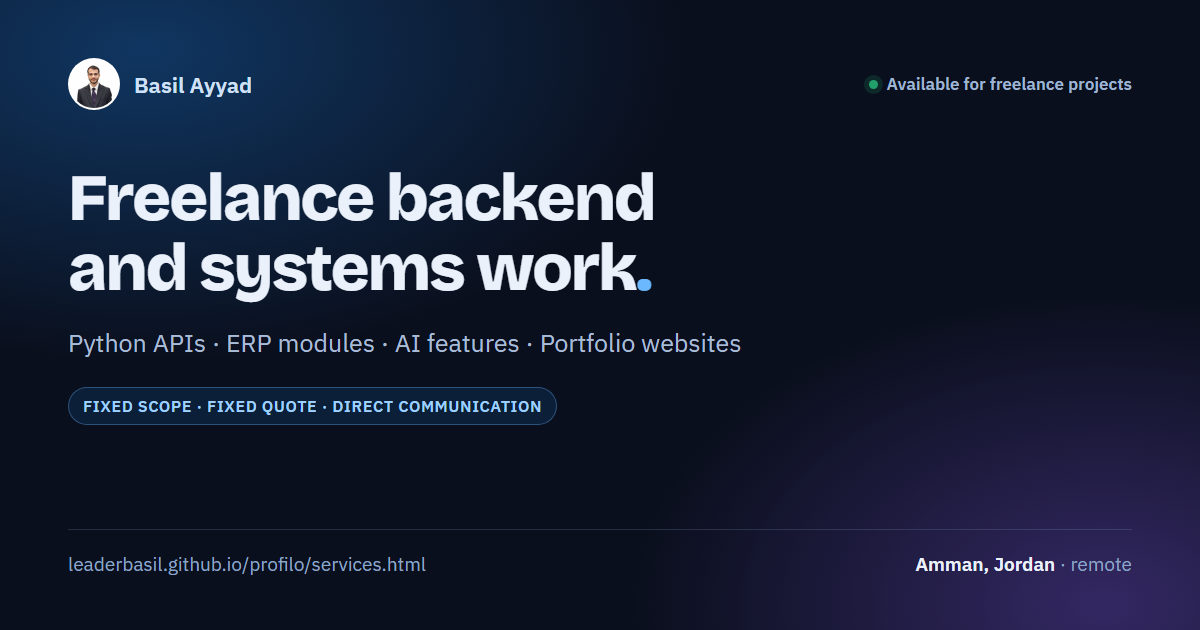
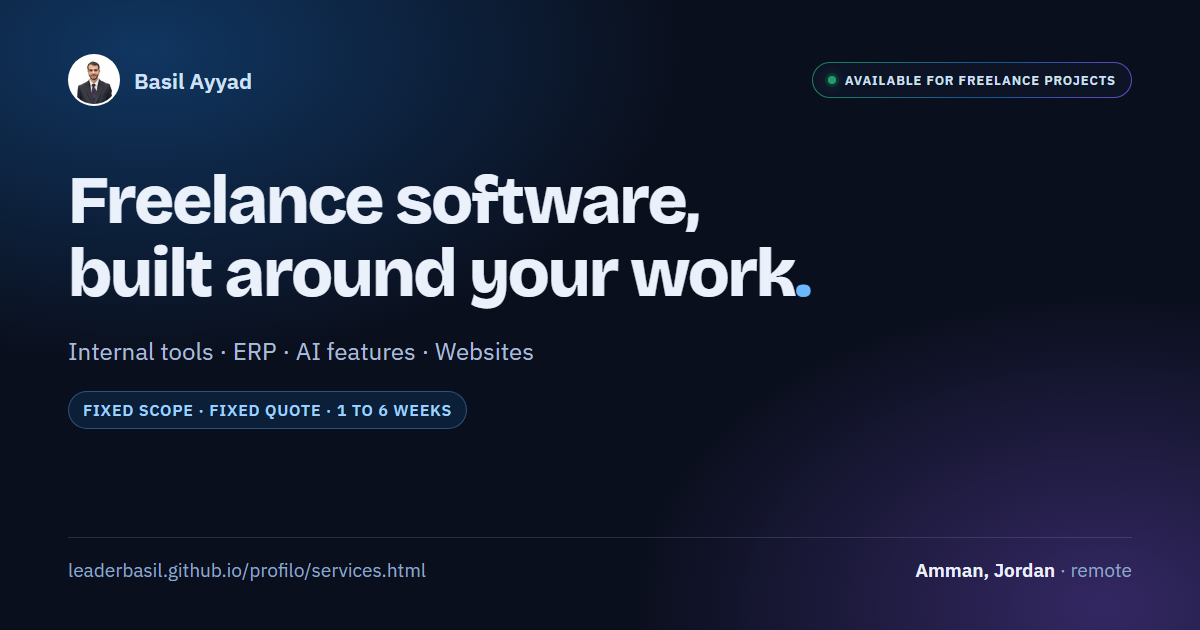
Refine freelance services copy and availability badge

diff --git a/services.html b/services.html
@@ -3,25 +3,25 @@
 <head>
 <meta charset="utf-8">
 <meta name="viewport" content="width=device-width, initial-scale=1, viewport-fit=cover">
-<title>Freelance Services — Basil Ayyad | Backend, ERP, AI, Portfolio Sites</title>
-<meta name="description" content="Freelance backend engineering: Python APIs, custom web apps, ERP modules, AI features, and fast portfolio websites. Based in Amman, working remotely.">
+<title>Freelance Services — Basil Ayyad | Internal Tools, ERP, AI, Websites</title>
+<meta name="description" content="Freelance software for internal tools, business systems, ERP modules, AI features, and fast portfolio websites. Based in Amman, working remotely.">
 <meta name="author" content="Basil Ayyad">
 <meta name="theme-color" content="#f6f9fe" media="(prefers-color-scheme: light)">
 <meta name="theme-color" content="#0a0f1d" media="(prefers-color-scheme: dark)">
 <meta property="og:type" content="website">
 <meta property="og:title" content="Freelance Services — Basil Ayyad">
-<meta property="og:description" content="Python APIs, custom web apps, ERP modules, AI features, and fast portfolio websites. Fixed scope, fixed quote, direct communication.">
+<meta property="og:description" content="Internal tools, business systems, ERP modules, AI features, and fast portfolio websites. Fixed scope, fixed quote, direct communication.">
 <meta property="og:url" content="https://leaderbasil.github.io/profilo/services.html">
 <meta property="og:image" content="https://leaderbasil.github.io/profilo/og-services.png">
 <meta property="og:image:width" content="1200">
 <meta property="og:image:height" content="630">
-<meta property="og:image:alt" content="Basil Ayyad, freelance backend engineer">
+<meta property="og:image:alt" content="Basil Ayyad, freelance software engineer">
 <meta name="twitter:card" content="summary_large_image">
 <meta name="twitter:title" content="Freelance Services — Basil Ayyad">
-<meta name="twitter:description" content="Python APIs, custom web apps, ERP modules, AI features, and fast portfolio websites. Fixed scope, fixed quote.">
+<meta name="twitter:description" content="Internal tools, business systems, ERP modules, AI features, and fast portfolio websites. Fixed scope, fixed quote.">
 <meta name="twitter:image" content="https://leaderbasil.github.io/profilo/og-services.png">
 <link rel="canonical" href="https://leaderbasil.github.io/profilo/services.html">
-<script type="application/ld+json">{"@context":"https://schema.org","@type":"ProfessionalService","name":"Basil Ayyad — Freelance Engineering","url":"https://leaderbasil.github.io/profilo/services.html","image":"https://leaderbasil.github.io/profilo/og-services.png","email":"mailto:leaderbasil@gmail.com","description":"Freelance backend engineering: Python APIs, custom web applications, ERP modules, AI features, automation, and portfolio websites.","address":{"@type":"PostalAddress","addressLocality":"Amman","addressCountry":"JO"},"areaServed":"Worldwide","priceRange":"$$","provider":{"@type":"Person","name":"Basil Ayyad","jobTitle":"Software Engineer","url":"https://leaderbasil.github.io/profilo/"},"hasOfferCatalog":{"@type":"OfferCatalog","name":"Freelance services","itemListElement":[{"@type":"Offer","itemOffered":{"@type":"Service","name":"REST API and backend development"}},{"@type":"Offer","itemOffered":{"@type":"Service","name":"Custom web applications and dashboards"}},{"@type":"Offer","itemOffered":{"@type":"Service","name":"ERP modules and integration"}},{"@type":"Offer","itemOffered":{"@type":"Service","name":"AI features inside business workflows"}},{"@type":"Offer","itemOffered":{"@type":"Service","name":"Portfolio and personal websites"}},{"@type":"Offer","itemOffered":{"@type":"Service","name":"Mobile and desktop clients"}},{"@type":"Offer","itemOffered":{"@type":"Service","name":"Automation, integrations, and reporting"}},{"@type":"Offer","itemOffered":{"@type":"Service","name":"Maintenance and support"}}]}}</script>
+<script type="application/ld+json">{"@context":"https://schema.org","@type":"ProfessionalService","name":"Basil Ayyad — Freelance Software","url":"https://leaderbasil.github.io/profilo/services.html","image":"https://leaderbasil.github.io/profilo/og-services.png","email":"mailto:leaderbasil@gmail.com","description":"Freelance software for internal tools, business systems, ERP modules, AI features, automation, and portfolio websites.","address":{"@type":"PostalAddress","addressLocality":"Amman","addressCountry":"JO"},"areaServed":"Worldwide","priceRange":"$$","provider":{"@type":"Person","name":"Basil Ayyad","jobTitle":"Software Engineer","url":"https://leaderbasil.github.io/profilo/"},"hasOfferCatalog":{"@type":"OfferCatalog","name":"Freelance services","itemListElement":[{"@type":"Offer","itemOffered":{"@type":"Service","name":"Internal tools and operations software"}},{"@type":"Offer","itemOffered":{"@type":"Service","name":"Customer portals and web applications"}},{"@type":"Offer","itemOffered":{"@type":"Service","name":"ERP modules and business systems"}},{"@type":"Offer","itemOffered":{"@type":"Service","name":"AI features that reduce manual review"}},{"@type":"Offer","itemOffered":{"@type":"Service","name":"Portfolio and personal websites"}},{"@type":"Offer","itemOffered":{"@type":"Service","name":"Mobile and desktop applications"}},{"@type":"Offer","itemOffered":{"@type":"Service","name":"Automation and reporting"}},{"@type":"Offer","itemOffered":{"@type":"Service","name":"Ongoing support and improvements"}}]}}</script>
 <link rel="icon" type="image/png" href="assets/avatar.png">
 <link rel="apple-touch-icon" href="assets/avatar.png">
 <link rel="preconnect" href="https://fonts.googleapis.com">
@@ -43,10 +43,10 @@
 <main id="top" class="wrap">
 <div class="page-hero">
 <div class="page-hero-text">
-<p class="status ent" style="--e:0"><i></i>Available for freelance projects</p>
-<h1 class="ent" style="--e:1">Freelance backend and systems work.</h1>
-<p class="role ent" style="--e:2">Python · APIs · ERP · AI features · Portfolio sites</p>
-<p class="lead ent" style="--e:3">I take on a small number of projects at a time, usually backend systems with a web or mobile client on top: an internal tool, an ERP module, an API that other products depend on, or a portfolio site that has to load fast and read well.<span class="lp">You work directly with me from the first call to the handover. The scope and the price are agreed in writing before the work starts, and you see working software every week or two.</span></p>
+<p class="avail ent" style="--e:0"><span class="ping" aria-hidden="true"></span>Available for freelance projects</p>
+<h1 class="ent" style="--e:1">Freelance software, built around your work.</h1>
+<p class="role ent" style="--e:2">Internal tools · ERP · AI features · Websites</p>
+<p class="lead ent" style="--e:3">I take on a small number of projects at a time, usually the software a team uses to run its work: an internal tool, an ERP module, a customer portal, or a portfolio site that has to load fast and read well.<span class="lp">You work directly with me from the first call to the handover. The scope and the price are agreed in writing before the work starts, and you see working software every week or two.</span></p>
 <div class="cta ent" style="--e:4">
 <a class="btn main" href="#contact" data-track="services-cta">Start a project<svg viewBox="0 0 24 24" fill="none" stroke="currentColor" stroke-width="2" stroke-linecap="round" stroke-linejoin="round" aria-hidden="true" style="width:17px;height:17px"><path d="M5 12h14m0 0-6-6m6 6-6 6"/></svg></a>
 <a class="btn" href="index.html#work">See selected work</a>
@@ -57,15 +57,15 @@
 <span><svg viewBox="0 0 24 24" fill="none" stroke="currentColor" stroke-width="2" stroke-linecap="round" stroke-linejoin="round" aria-hidden="true"><circle cx="12" cy="12" r="9"/><path d="M3 12h18M12 3c2.5 2.6 3.8 5.7 3.8 9S14.5 18.4 12 21c-2.5-2.6-3.8-5.7-3.8-9S9.5 5.6 12 3z"/></svg>English or Arabic</span>
 </div>
 </div>
-<div class="console ent" style="--e:2" role="img" aria-label="A sample project request: internal tool, Python, FastAPI, PostgreSQL, fixed scope, 3 to 6 weeks">
+<div class="console ent" style="--e:2" role="img" aria-label="A sample project request: internal tool for an operations team, fixed scope, 1 to 6 weeks">
 <div class="top" aria-hidden="true"><b></b><b></b><b></b></div>
 <div class="body">
 <div class="req ln" style="--i:0">POST /projects</div>
 <span class="ln" style="--i:1">{</span>
 <span class="ln" style="--i:2">&nbsp;&nbsp;<span class="k">"type"</span>: <span class="s">"internal tool"</span>,</span>
-<span class="ln" style="--i:3">&nbsp;&nbsp;<span class="k">"stack"</span>: [<span class="s">"Python"</span>, <span class="s">"FastAPI"</span>, <span class="s">"PostgreSQL"</span>],</span>
+<span class="ln" style="--i:3">&nbsp;&nbsp;<span class="k">"users"</span>: <span class="s">"operations team"</span>,</span>
 <span class="ln" style="--i:4">&nbsp;&nbsp;<span class="k">"scope"</span>: <span class="s">"agreed in writing"</span>,</span>
-<span class="ln" style="--i:5">&nbsp;&nbsp;<span class="k">"timeline"</span>: <span class="s">"3 to 6 weeks"</span>,</span>
+<span class="ln" style="--i:5">&nbsp;&nbsp;<span class="k">"timeline"</span>: <span class="s">"1 to 6 weeks"</span>,</span>
 <span class="ln" style="--i:6">&nbsp;&nbsp;<span class="k">"status"</span>: <span class="s">"taking one project"</span></span>
 <span class="ln" style="--i:7">}<span class="cur" aria-hidden="true"></span></span>
 </div></div>
@@ -73,56 +73,56 @@
 </div>
 
 <section id="services">
-<h2 class="rv">What I can build</h2>
-<p class="sub rv" style="--d:.05s">Most projects start with one of these. If yours is close, send a short description and I will tell you what it takes.</p>
+<h2 class="rv">What I take on</h2>
+<p class="sub rv" style="--d:.05s">Most engagements start with one of these. If yours is close, send a short description and I will tell you what it takes.</p>
 <div class="svc-grid">
 <article class="card svc rv">
-<span class="ico"><svg viewBox="0 0 24 24" fill="none" stroke="currentColor" stroke-width="1.7" stroke-linecap="round" stroke-linejoin="round" aria-hidden="true"><path d="M8 3H5a2 2 0 0 0-2 2v3M16 3h3a2 2 0 0 1 2 2v3M8 21H5a2 2 0 0 1-2-2v-3M16 21h3a2 2 0 0 0 2-2v-3"/><path d="m9.5 9.5-2 2.5 2 2.5M14.5 9.5l2 2.5-2 2.5"/></svg></span>
-<h3>REST APIs and backend services</h3>
-<p>A documented API with authentication, roles, validation, and tests. I build it with FastAPI or Sanic on PostgreSQL or MySQL, and deploy it with Docker.</p>
-<ul class="del"><li>OpenAPI documentation</li><li>JWT auth and role permissions</li><li>Database schema and migrations</li><li>Tests and deployment notes</li></ul>
+<span class="ico"><svg viewBox="0 0 24 24" fill="none" stroke="currentColor" stroke-width="1.7" stroke-linecap="round" stroke-linejoin="round" aria-hidden="true"><path d="M4 7h8M16 7h4M4 12h4M12 12h8M4 17h10M18 17h2"/><circle cx="14" cy="7" r="2"/><circle cx="10" cy="12" r="2"/><circle cx="16" cy="17" r="2"/></svg></span>
+<h3>Internal tools and operations software</h3>
+<p>Software for the work that still runs on spreadsheets, messages, and memory: approvals, stock, orders, schedules, and the reports managers ask for every week.</p>
+<ul class="del"><li>A working internal system</li><li>Roles and permissions</li><li>Reports and exports</li><li>Training and handover</li></ul>
 </article>
 <article class="card svc rv" style="--d:.06s">
 <span class="ico"><svg viewBox="0 0 24 24" fill="none" stroke="currentColor" stroke-width="1.7" stroke-linecap="round" stroke-linejoin="round" aria-hidden="true"><rect x="3" y="4" width="18" height="16" rx="2"/><path d="M3 9h18M6.5 6.5h.01M9.5 6.5h.01"/></svg></span>
-<h3>Custom web applications</h3>
-<p>An internal tool or a customer-facing app: a React front end on a Python backend, with a data model that matches how the business actually works.</p>
-<ul class="del"><li>Admin dashboard or customer portal</li><li>Role-based screens</li><li>Reports and exports</li><li>Deployment and handover</li></ul>
+<h3>Customer portals and web applications</h3>
+<p>Accounts, orders, bookings, or a portal your customers log into. Built around the journey they actually take, with a back office your team can run without me.</p>
+<ul class="del"><li>Customer portal or booking flow</li><li>Admin back office</li><li>Email and notifications</li><li>Launch support</li></ul>
 </article>
 <article class="card svc rv" style="--d:.12s">
 <span class="ico"><svg viewBox="0 0 24 24" fill="none" stroke="currentColor" stroke-width="1.7" stroke-linecap="round" stroke-linejoin="round" aria-hidden="true"><rect x="3" y="3" width="7" height="7" rx="1.5"/><rect x="14" y="3" width="7" height="7" rx="1.5"/><rect x="3" y="14" width="7" height="7" rx="1.5"/><rect x="14" y="14" width="7" height="7" rx="1.5"/></svg></span>
-<h3>ERP modules and integration</h3>
-<p>Inventory, sales, purchasing, accounting, or reporting modules added to an existing ERP, or a small ERP built around the parts you need. I have built seven modules of a production ERP.</p>
-<ul class="del"><li>Module design and data model</li><li>Integration with client systems</li><li>Data import and migration</li><li>Reports and permissions</li></ul>
+<h3>ERP modules and business systems</h3>
+<p>Inventory, sales, purchasing, accounting, or reporting added to the system you already run, or a smaller system built around the parts you need. I have shipped seven modules of a production ERP.</p>
+<ul class="del"><li>Module scope and data model</li><li>Migration of existing data</li><li>Integration with current tools</li><li>Reports and permissions</li></ul>
 </article>
 <article class="card svc rv" style="--d:.18s">
 <span class="ico"><svg viewBox="0 0 24 24" fill="none" stroke="currentColor" stroke-width="1.7" stroke-linecap="round" stroke-linejoin="round" aria-hidden="true"><path d="m12 3 1.9 5.1L19 10l-5.1 1.9L12 17l-1.9-5.1L5 10l5.1-1.9z"/><path d="m18 15 .9 2.1L21 18l-2.1.9L18 21l-.9-2.1L15 18l2.1-.9z"/></svg></span>
-<h3>AI features inside the workflow</h3>
-<p>Document extraction, report summarization, search over your own data, or a review step that flags what needs attention. Integrated into the screens your team already uses, not as a separate chat window.</p>
-<ul class="del"><li>Prompt and pipeline design</li><li>Structured extraction with validation</li><li>Human review step</li><li>Cost and latency controls</li></ul>
+<h3>AI features that reduce manual review</h3>
+<p>Document reading, summarization, and search inside the screens your team already uses. The aim is fewer manual steps, with a person still approving what matters.</p>
+<ul class="del"><li>Workflow and success measure</li><li>Extraction with validation</li><li>Human review step</li><li>Cost and accuracy limits</li></ul>
 </article>
 <article class="card svc rv" style="--d:.24s">
 <span class="ico"><svg viewBox="0 0 24 24" fill="none" stroke="currentColor" stroke-width="1.7" stroke-linecap="round" stroke-linejoin="round" aria-hidden="true"><rect x="3" y="4" width="18" height="16" rx="2"/><path d="M3 9h18M8 13h8M8 16.5h5"/></svg></span>
 <h3>Portfolio and personal websites</h3>
-<p>A fast, accessible one-page portfolio for a developer, designer, or job seeker: your real content, a clean layout, light and dark themes, SEO tags, and a contact form that works without a server. This site is the example.</p>
-<ul class="del"><li>One-page or multi-page site</li><li>Responsive and accessible</li><li>SEO and social preview</li><li>Deployment on GitHub Pages or Netlify</li></ul>
+<p>A focused one-page site for a developer, designer, or job seeker: clear writing, fast loading, light and dark themes, and a contact route that works. This site is the example.</p>
+<ul class="del"><li>Content structure and copy review</li><li>Responsive, accessible build</li><li>Search and social preview</li><li>Domain and deployment</li></ul>
 </article>
-<article class="card svc rv" style="--d:.3s">
+<article class="card svc rv" style="--d:.30s">
 <span class="ico"><svg viewBox="0 0 24 24" fill="none" stroke="currentColor" stroke-width="1.7" stroke-linecap="round" stroke-linejoin="round" aria-hidden="true"><rect x="2" y="4" width="14" height="10" rx="1.5"/><path d="M6 18h6"/><rect x="17" y="10" width="5" height="10" rx="1.2"/></svg></span>
-<h3>Mobile and desktop clients</h3>
-<p>Flutter apps for iOS and Android, or a desktop client with Electron, connected to the same API and shipped with the backend.</p>
-<ul class="del"><li>Android and iOS builds</li><li>Desktop app with Electron</li><li>Offline basics where needed</li><li>Store-ready builds</li></ul>
+<h3>Mobile and desktop applications</h3>
+<p>A phone or desktop app connected to the same system as your web tools, so the field team and the office work from the same data.</p>
+<ul class="del"><li>iOS and Android app</li><li>Desktop app</li><li>Offline handling where needed</li><li>Release and store submission</li></ul>
 </article>
 <article class="card svc rv" style="--d:.36s">
 <span class="ico"><svg viewBox="0 0 24 24" fill="none" stroke="currentColor" stroke-width="1.7" stroke-linecap="round" stroke-linejoin="round" aria-hidden="true"><path d="M20 12a8 8 0 1 1-2.3-5.6"/><path d="M20 4v5h-5"/></svg></span>
-<h3>Automation, integrations, and reporting</h3>
-<p>Scheduled jobs, data sync between systems, CSV and Excel imports, PDF reports, and small scripts that remove repetitive work.</p>
-<ul class="del"><li>Scheduled jobs and sync</li><li>API integrations</li><li>Excel and PDF output</li><li>Logging and failure alerts</li></ul>
+<h3>Automation and reporting</h3>
+<p>The repetitive parts: scheduled jobs, data moving between systems, imports, and reports that currently take a person half a day.</p>
+<ul class="del"><li>Process map and failure plan</li><li>Scheduled jobs and sync</li><li>Excel and PDF reports</li><li>Alerts when something breaks</li></ul>
 </article>
 <article class="card svc rv" style="--d:.42s">
 <span class="ico"><svg viewBox="0 0 24 24" fill="none" stroke="currentColor" stroke-width="1.7" stroke-linecap="round" stroke-linejoin="round" aria-hidden="true"><path d="M12 3l7 3v5c0 4.5-3 7.5-7 9-4-1.5-7-4.5-7-9V6z"/><path d="m9 12 2 2 4-4"/></svg></span>
-<h3>Maintenance and support</h3>
-<p>A monthly block of hours for fixes, dependency updates, small features, and deployment support after launch.</p>
-<ul class="del"><li>Bug fixes and updates</li><li>Small feature work</li><li>Monitoring and backups</li><li>A short monthly report</li></ul>
+<h3>Ongoing support and improvements</h3>
+<p>A monthly block of time for fixes, updates, and small improvements after launch, with a short report of what changed.</p>
+<ul class="del"><li>Priority fixes</li><li>Small feature work</li><li>Monitoring and backups</li><li>Monthly summary</li></ul>
 </article>
 </div>
 </section>
@@ -140,21 +140,21 @@
 <section id="proof">
 <h2 class="rv">Proof, not promises</h2>
 <div class="proof">
-<a class="rv" href="index.html#work"><b>PolarisX</b><span>A production ERP with seven modules: inventory, CRM, accounting, point of sale, operations, reporting, and documents. Sanic, MySQL, Flutter, React, and Electron.</span><em>Read the case<svg viewBox="0 0 24 24" fill="none" stroke="currentColor" stroke-width="2" stroke-linecap="round" stroke-linejoin="round" aria-hidden="true"><path d="M5 12h14m0 0-6-6m6 6-6 6"/></svg></em></a>
-<a class="rv" style="--d:.08s" href="index.html#work"><b>Arjan</b><span>A clinic platform with 56 tables and more than 160 endpoints. FastAPI, PostgreSQL, JWT roles, an audit log, and Gemini for lab reports.</span><em>Read the case<svg viewBox="0 0 24 24" fill="none" stroke="currentColor" stroke-width="2" stroke-linecap="round" stroke-linejoin="round" aria-hidden="true"><path d="M5 12h14m0 0-6-6m6 6-6 6"/></svg></em></a>
-<a class="rv" style="--d:.16s" href="index.html"><b>This site</b><span>One hand-written page, no framework, light and dark themes, SEO and social tags, and a Lighthouse score of 100 for accessibility, best practices, and SEO.</span><em>Open the home page<svg viewBox="0 0 24 24" fill="none" stroke="currentColor" stroke-width="2" stroke-linecap="round" stroke-linejoin="round" aria-hidden="true"><path d="M5 12h14m0 0-6-6m6 6-6 6"/></svg></em></a>
+<a class="rv" href="index.html#work"><b>PolarisX</b><span>A production ERP covering seven business areas, from inventory and sales to accounting and reporting, used on web, desktop, and mobile.</span><em>Read the case<svg viewBox="0 0 24 24" fill="none" stroke="currentColor" stroke-width="2" stroke-linecap="round" stroke-linejoin="round" aria-hidden="true"><path d="M5 12h14m0 0-6-6m6 6-6 6"/></svg></em></a>
+<a class="rv" style="--d:.08s" href="index.html#work"><b>Arjan</b><span>A clinic platform that follows a patient from appointment to lab result, with role-based access and an audit trail on every change.</span><em>Read the case<svg viewBox="0 0 24 24" fill="none" stroke="currentColor" stroke-width="2" stroke-linecap="round" stroke-linejoin="round" aria-hidden="true"><path d="M5 12h14m0 0-6-6m6 6-6 6"/></svg></em></a>
+<a class="rv" style="--d:.16s" href="index.html"><b>This site</b><span>A hand-written one-page site with light and dark themes, search and social previews, and a perfect score for accessibility and SEO.</span><em>Open the home page<svg viewBox="0 0 24 24" fill="none" stroke="currentColor" stroke-width="2" stroke-linecap="round" stroke-linejoin="round" aria-hidden="true"><path d="M5 12h14m0 0-6-6m6 6-6 6"/></svg></em></a>
 </div>
 </section>
 
 <section id="faq">
 <h2 class="rv">Questions people ask</h2>
 <div class="faq">
-<details class="rv"><summary>How long does a project take?</summary><p>A focused API or internal tool usually takes 2 to 6 weeks. ERP modules depend on the number of screens and integrations, so I give a timeline after the first call.</p></details>
+<details class="rv"><summary>How long does a project take?</summary><p>Most projects take 1 to 6 weeks. Larger ERP work is split into phases, and I confirm the timeline after the first call.</p></details>
 <details class="rv"><summary>How do you price the work?</summary><p>A fixed price per project once the scope is agreed. For ongoing work, a monthly block of hours. I ask for 40% upfront, with the rest tied to milestones.</p></details>
-<details class="rv"><summary>Can you work with an existing codebase?</summary><p>Yes. I read the code and the database first, then write down what I would change before changing it. If the code is not something I can work with safely, I will say so.</p></details>
+<details class="rv"><summary>Can you work with an existing system?</summary><p>Yes. I review the current setup first, then write down what I would change before changing it. If it is not something I can work with safely, I will say so.</p></details>
 <details class="rv"><summary>Who owns the code and the accounts?</summary><p>You do. Repositories, domains, and deployment accounts stay in your name, and I work with your accounts where possible.</p></details>
 <details class="rv"><summary>Are you available full time?</summary><p>No. I work alongside a full-time engineering role, so I take one freelance project at a time and plan the timeline around it.</p></details>
-<details class="rv"><summary>What do you need to start?</summary><p>A short description of the workflow, access to any existing code, and one person who can approve the scope. A call is usually enough to decide whether we should work together.</p></details>
+<details class="rv"><summary>What do you need to start?</summary><p>A short description of the workflow, access to any existing system, and one person who can approve the scope. A call is usually enough to decide whether we should work together.</p></details>
 </div>
 </section>
 

diff --git a/assets/site.css b/assets/site.css
@@ -250,3 +250,8 @@ footer{padding:8px 0 34px;color:var(--mute);font-size:14px}
 .page-hero>*{min-width:0}
 @media (max-width:900px){.page-hero{grid-template-columns:minmax(0,1fr)}}
 @media (max-width:560px){.console{font-size:12px}.console .body{padding:14px 14px 16px}}
+
+.avail{position:relative;display:inline-flex;align-items:center;gap:11px;margin:0 0 20px;padding:9px 17px 9px 14px;border-radius:999px;border:1px solid transparent;background:linear-gradient(var(--surface),var(--surface)) padding-box,linear-gradient(115deg,rgba(34,160,107,.75),rgba(30,144,255,.55) 55%,rgba(139,92,246,.7)) border-box;box-shadow:0 14px 32px -22px rgba(30,144,255,.85),inset 0 1px 0 rgba(255,255,255,.06);font:700 12px/1 "IBM Plex Sans",sans-serif;letter-spacing:.11em;text-transform:uppercase;color:var(--ink)}
+.avail .ping{position:relative;width:8px;height:8px;border-radius:50%;background:#22a06b;flex:none;box-shadow:0 0 0 3px rgba(34,160,107,.14),0 0 12px rgba(34,160,107,.55)}
+.avail .ping::after{content:"";position:absolute;inset:-5px;border-radius:50%;border:1px solid rgba(34,160,107,.45);animation:availPing 2.8s cubic-bezier(0,0,.2,1) infinite}
+@keyframes availPing{0%{transform:scale(.55);opacity:.85}70%,100%{transform:scale(2.1);opacity:0}}

diff --git a/index.html b/index.html
@@ -185,7 +185,7 @@
 <div class="freelance-copy">
 <p class="fc-kicker">Available for selected projects</p>
 <h3>Need a system built, not just a page?</h3>
-<p>I take on a small number of freelance projects: Python APIs, internal tools, ERP modules, AI features, and portfolio websites. The scope and the price are agreed in writing before any work starts.</p>
+<p>I take on a small number of freelance projects: internal tools, business systems, ERP modules, AI features, and portfolio websites. The scope and the price are agreed in writing before any work starts.</p>
 </div>
 <a class="btn main" href="services.html" data-track="services-view">View services<svg viewBox="0 0 24 24" fill="none" stroke="currentColor" stroke-width="2" stroke-linecap="round" stroke-linejoin="round" aria-hidden="true" style="width:17px;height:17px"><path d="M5 12h14m0 0-6-6m6 6-6 6"/></svg></a>
 </div>
